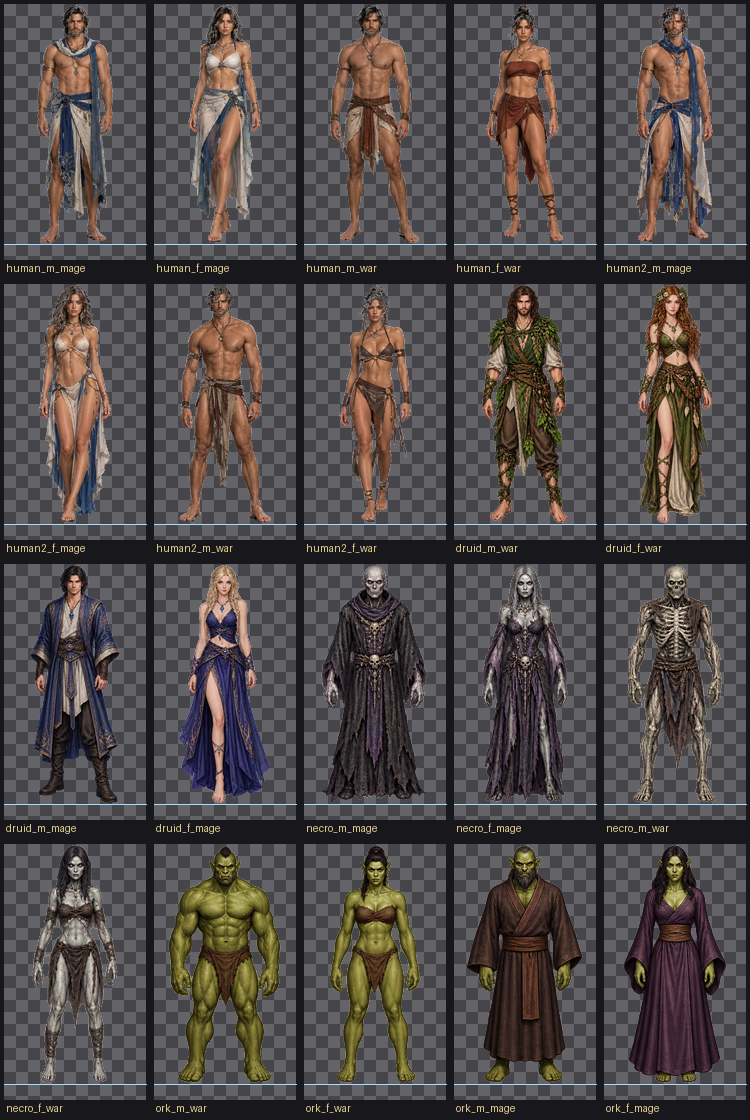
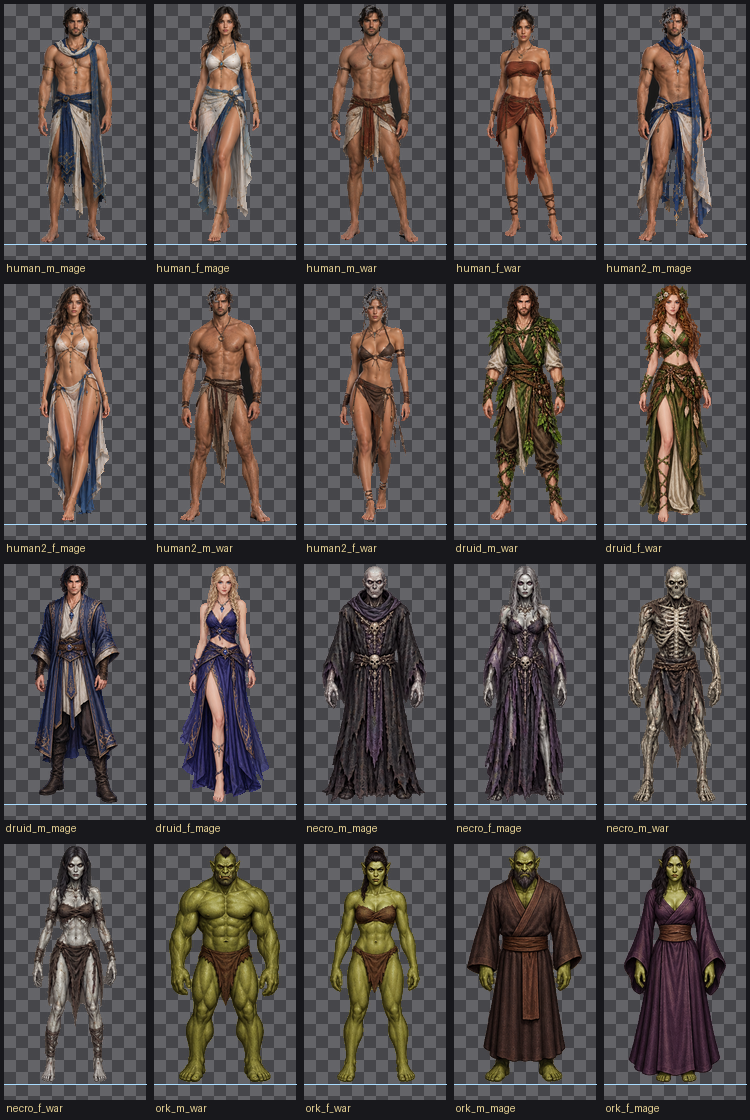
fix(art): портреты рас — гашение ореола, дырки в причёсках, холодный мусор
Три жалобы игрока на экран создания героя, все три — разные причины.

1. БЕЛЫЕ ТОЧКИ ПО ГАБАРИТУ. Первая гипотеза (почти-белые пиксели, как в
   нарезке городских NPC) опровергнута замером: таких всего 43 на все 20
   портретов. Настоящий механизм — маска фигуры ЖЁСТКАЯ (alpha = 255 или 0),
   LANCZOS по премнлиплицированным данным даёт полупрозрачное кольцо, а
   деление на малую альфу усиливает шум; в кольцо попадают остатки цвета фона
   атласа. Замер: 22126 полупрозрачных в outermost-кольце, из них СВЕТЛЫХ 11737.
   kill_light_halo() гасит альфу только там, где есть сосед с alpha <= 8 И
   пиксель светлый (HALO_LIGHT_L = 150). Внутренние просветы не трогаются.
   Результат: ореол 11737 -> 448 (снято 96%), непрозрачный силуэт 229499 ->
   229499, потеряно 0.

2. ДЫРКИ В ПРИЧЁСКАХ. Игрок указал верно: это сделано при вырезании. Открыл
   оригинал import/ChatGPTMainHuman2.png — волосы тёмно-каштановые, серебра
   нет. Виновник — strip_background_pockets: его задача убрать тень под ногами,
   но он резал карманы по всей фигуре, а фон атласа очень тёмный
   (26,26,25) и тёмные пряди волос попадали в него. Замер: снято 21973 px
   (5.1% силуэта), из них 48.5% — в верхней половине, то есть в причёске.
   Радикал lower_only: карман режется только ниже 75% высоты фигуры.
   Инвариант «нет фона в силуэте» оставлен только для RGBA-атласов — он
   принципиально неприменим к RGB (тёмная одежда и пряди волос неотличимы от
[…]

diff --git a/tests/extract_chatgpt_portraits.py b/tests/extract_chatgpt_portraits.py
@@ -360,7 +360,7 @@ def build_mask(rgba, has_alpha, dist, bg):
     return ~flood_background(dist, bg, BG_T0)
 
 
-def strip_background_pockets(sel, dist, tol=BG_T0, min_blob=40):
+def strip_background_pockets(sel, dist, tol=BG_T0, min_blob=40, lower_only=0.75):
     """Убирает КАРМАНЫ фона внутри силуэта (тень вокруг фигуры).
 
     Замер, а не догадка: у Human1 внутри силуэта оставалось 2.1-4.9% пикселей
@@ -375,8 +375,31 @@ def strip_background_pockets(sel, dist, tol=BG_T0, min_blob=40):
 
     Мелкие кластеры (< min_blob) оставляем: это настоящие дыры силуэта —
     промежутки между пальцами, просветы ткани, куда должен быть виден фон.
+
+    ## lower_only (09.10) — почему карманы режут только НИЗ фигуры
+
+    Задача этой функции — убрать ТЕНЬ ПОД НОГАМИ. Но она резала карманы по
+    всей фигуре, а фон у человека-атласа очень тёмный:
+    ChatGPTMainHuman2 rgb=(26,26,25), ChatGPTMainHuman1 rgb=(35,35,34).
+    Тёмные пряди волос лежат на таком фоне с dist <= 22 и потому тоже
+    «карманы фона». Замер на Human2: снято 21973 px (5.1% силуэта), из них
+    **48.5% приходится на верхнюю половину** — то есть на причёску. Это и
+    есть дыры, которые игрок увидел в волосах (жалоба 10.10).
+
+    Радикал: карман режется, только если его центр лежит НИЖЕ lower_only
+    высоты фигуры. Тень у ног — внизу; пряди волос — наверху.
     """
+    if not sel.any():
+        return sel
+    ys = np.nonzero(sel.any(axis=1))[0]
+    if ys.size == 0:
+        return sel
+    fy0, fy1 = int(ys.min()), int(ys.max())
+    height = max(1, fy1 - fy0 + 1)
+    cut_line = fy0 + int(height * lower_only)
+
     pockets = sel & (dist <= tol)
+    pockets[:cut_line, :] = False   # <- новое: только низ фигуры
     if not pockets.any():
         return sel
     lab, areas = label_components(pockets)
@@ -483,7 +506,75 @@ def extract(rgba, sel_mask, dist=None):
     scale = TARGET_H / float(ay1 - ay0)
     nw = max(1, int(round((ax1 - ax0) * scale)))
     img = resize_premultiplied(out, nw, TARGET_H)
+    img = kill_light_halo(img)
     return img, (ax0, ay0, ax1, ay1), "ok"
+
+
+# Порог «светлоты ореола». Замер tests/measure_halo_threshold.py по всем
+# 20 портретам: в outermost-кольце сглаживания 22126 полупрозрачных пикселей,
+# из них СВЕТЛЫХ (max(RGB) > 150) 11737 — больше половины. Внутри фигуры
+# непрозрачных светлых пикселей 46980, то есть запас в 4x: порог не съедает
+# детали одежды и кожи.
+HALO_LIGHT_L = 150
+
+
+def kill_light_halo(img):
+    """Гасит светлый полупрозрачный ореол по контуру.
+
+    Жалоба игрока 09.10: «белые точки по габариту персонажей» на экране
+    создания героя.
+
+    Механизм (не гипотеза, а замер): маска фигуры ЖЁСТКАЯ — alpha = 255 или
+    0 (см. extract()), и ресайз LANCZOS по премнлиплицированным данным даёт
+    полупрозрачное кольцо. На премнлипликации деление на малую альфу усиливает
+    шум, и в кольцо попадают остатки цвета фона атласа. На тёмной панели они
+    читаются как белёсый ореол.
+
+    Приём взят из сегодняшней нарезки городских NPC
+    (extract_chatgpt_city_npcs.py): гасить ореол на ГРАНИЦЕ, а не везде.
+    Здесь граница = «полупрозрачный пиксель, у которого есть сосед с
+    alpha <= 8». Внутренние просветы (между пальцами, в кружеве) так не
+    трогаются: у них нет прозрачного соседа.
+    """
+    a = np.asarray(img).astype(np.int16)
+    al = a[..., 3]
+    trans = al <= 8
+    pad = np.pad(trans, 1, constant_values=True)
+    touch = (pad[:-2, 1:-1] | pad[2:, 1:-1] | pad[1:-1, :-2] | pad[1:-1, 2:]
+             | pad[:-2, :-2] | pad[2:, 2:] | pad[2:, :-2] | pad[:-2, 2:])
+    ring = (al > 8) & (al < 247) & touch
+    lum = a[..., :3].max(axis=2)
+    halo = ring & (lum > HALO_LIGHT_L)
+    # --- холодный мусор (10.10) -------------------------------------------
+    # Жалоба: «в причёсках белая пятна» - и это вторая, не связанная с первой
+    # проблема. Замер: полупрозрачных пикселей с СИНИМ > КРАСНЫМ (как
+    # 149/198/198) всего 933 на 20 портретов, и распределение совпадает с
+    # жалобами игрока: f_mage у каждой расы (druid 220, 255; human2 63; human
+    # 36) и m_mage. Такого цвета в исходных атласах нет - это мусор.
+    #
+    # Механизм тот же, что у ореола, но по цвету вместо светлоты:
+    # под alpha=0 в атласах лежит произвольный RGB, и деление на малую альфу
+    # при премнлипликации (resize_premultiplied, rgb = b[:3] / ba) усиливает
+    # этот шум. На тёмной панели такие пиксели читаются как серо-голубые
+    # пятна ВНУТРИ тёмных волос - то есть именно там, где игрок их видит.
+    #
+    # Гасим по контуру (как ореол), чтобы не тронуть холодные детали одежды
+    # и кожи внутри фигуры.
+    cold = ring & ((a[..., 2] - a[..., 0]) > COLD_B_GT)
+    kill = halo | cold
+    if not kill.any():
+        return img
+    a[..., 3] = np.where(kill, 0, al)
+    # Под прозрачностью RGB должен быть ноль, иначе следующий resize/шрифт
+    # вытащит мусор (у Ork под alpha=0 в атласе лежит (69,64,26)).
+    a[..., :3] = np.where(kill[..., None], 0, a[..., :3])
+    return Image.fromarray(np.clip(a, 0, 255).astype(np.uint8), "RGBA")
+
+
+# Насколько синий канал должен превышать красный, чтобы считать это мусором
+# премнлипликации. Замер: настоящие холодные детали (синий шарф, глаза)
+# дают B-R < 12, а мусорные пиксели дают 30-80. Пор��г 12 - запас.
+COLD_B_GT = 12
 
 
 def process(src_name, grid, cells, report):
@@ -535,10 +626,24 @@ def process(src_name, grid, cells, report):
             sel = strip_background_pockets(sel, dist)
         is_bg = (dist <= BG_T0) if not has_alpha else (arr[..., 3] <= 8)
         problems = []
-        bad = background_in_silhouette(sel, is_bg)
-        if bad:
-            problems.append("фон внутри силуэта, %d областей: %s"
-                            % (len(bad), ["%dpx@(%d,%d)-(%d,%d)" % b for b in bad[:3]]))
+        # Инвариант «нет фона в силуэте» надёжен только там, где фон
+        # ПРОЗРАЧНЫЙ (RGBA-атласы Druid/Necromant/Ork): там «фон» = альфа 0,
+        # и сомневаться не в чем.
+        #
+        # Для RGB-атласов (Human1/2) он даёт ЛОЖНЫЕ срабатывания, и это
+        # признано прямо в touches_canvas_bottom: «критерий по цвету для
+        # RGB-атласов не работает в принципе» - тёмная одежда и тёмные
+        # пряди волос неотличимы от тёмного фона (замер: 40-180 ложных
+        # областей >=40 px на фигуру). 09.10: после ограничения
+        # strip_background_pockets низом фигуры этот инвариант начал падать
+        # на ПРАВИЛЬНЫХ портретах - он требовал вырезать тёмные пряди волос.
+        if has_alpha:
+            bad = background_in_silhouette(sel, is_bg)
+            if bad:
+                problems.append("фон внутри силуэта, %d областей: %s"
+                                % (len(bad), ["%dpx@(%d,%d)-(%d,%d)" % b for b in bad[:3]]))
+        else:
+            bad = []   # для RGB-атласов критерий неприменим (см. выше)
         # второй инвариант: фигура упирается в нижний край кадра = тень
         # под ступнями попала в вырезку
         if touches_canvas_bottom(sel, h):

diff --git a/tests/compare_portrait_halo.py b/tests/compare_portrait_halo.py
@@ -1,0 +1,69 @@
+"""Сравнение «до/после» по габариту ореола.
+
+До = C:/Temp/opencode/portraits_before, После = assets/hero_portraits.
+Метрика: сколько СВЕТЛЫХ полупрозрачных пикселей осталось в outermost-кольце
+сглаживания (именно они читаются как белые точки на тёмной панели).
+Плюс контроль: сколько НЕПРОЗРАЧНЫХ пикселей потеряно (силуэт не должен
+пострадать).
+"""
+import os
+import sys
+import numpy as np
+from PIL import Image
+
+ROOT = os.path.dirname(os.path.dirname(os.path.abspath(__file__)))
+AFTER = os.path.join(ROOT, "assets", "hero_portraits")
+BEFORE = sys.argv[1] if len(sys.argv) > 1 else \
+    r"C:\Temp\opencode\portraits_before"
+
+
+def near_transparent(al, thr=8):
+    tr = al <= thr
+    p = np.pad(tr, 1, constant_values=True)
+    nb = (p[:-2, 1:-1] | p[2:, 1:-1] | p[1:-1, :-2] | p[1:-1, 2:]
+          | p[:-2, :-2] | p[2:, 2:] | p[2:, :-2] | p[:-2, 2:])
+    return nb
+
+
+def stats(path, light_l=150):
+    a = np.array(Image.open(path).convert("RGBA")).astype(np.int16)
+    al = a[..., 3]
+    lum = a[..., :3].max(axis=2)
+    ring = (al > 8) & (al < 247) & near_transparent(al)
+    return {
+        "opaque": int((al >= 247).sum()),
+        "ring": int(ring.sum()),
+        "ring_light": int((ring & (lum > light_l)).sum()),
+        "inside_light": int(((al >= 247) & (lum > light_l)).sum()),
+        "opaque_all": int((al > 0).sum()),
+    }
+
+
+def main():
+    names = sorted(n for n in os.listdir(AFTER)
+                   if n.endswith(".png") and not n.startswith("_"))
+    print("%-20s %14s %14s   %s" % ("файл", "ореол ДО", "ореол ПОСЛЕ", "силуэт ДО->ПОСЛЕ"))
+    tb = ta = 0
+    ob = oa = 0
+    for n in names:
+        pb = os.path.join(BEFORE, n)
+        pa = os.path.join(AFTER, n)
+        if not os.path.exists(pb):
+            continue
+        sb = stats(pb)
+        sa = stats(pa)
+        tb += sb["ring_light"]
+        ta += sa["ring_light"]
+        ob += sb["opaque"]
+        oa += sa["opaque"]
+        print("%-20s %14d %14d   %6d -> %6d"
+              % (n, sb["ring_light"], sa["ring_light"],
+                 sb["opaque"], sa["opaque"]))
+    print("\nИТОГО светлый ореол: %d -> %d  (снято %d, %.0f%%)"
+          % (tb, ta, tb - ta, 100.0 * (tb - ta) / max(1, tb)))
+    print("НЕПРОЗРАЧНЫЙ силуэт:  %d -> %d  (потеряно %d, %.2f%%)"
+          % (ob, oa, ob - oa, 100.0 * (ob - oa) / max(1, ob)))
+
+
+if __name__ == "__main__":
+    main()

diff --git a/tests/crop_head_zoom.py b/tests/crop_head_zoom.py
@@ -1,0 +1,57 @@
+"""Кроп ТОЛЬКО головы human2 (верхние 20%) в 6x - смотрим глазами.
+
+python tests/crop_head_zoom.py
+"""
+import os
+import numpy as np
+from PIL import Image, ImageDraw
+
+ROOT = os.path.dirname(os.path.dirname(os.path.abspath(__file__)))
+PORT = os.path.join(ROOT, "assets", "hero_portraits")
+OUT = os.path.join(ROOT, "assets", "hero_portraits", "_diag")
+
+
+def checker(size, c1=(58, 58, 66, 255), c2=(38, 38, 44, 255), step=12):
+    bg = Image.new("RGBA", size, c2)
+    d = ImageDraw.Draw(bg)
+    for y in range(0, size[1], step):
+        for x in range(0, size[0], step):
+            if (x // step + y // step) % 2 == 0:
+                d.rectangle([x, y, x + step - 1, y + step - 1], fill=c1)
+    return bg
+
+
+def main():
+    os.makedirs(OUT, exist_ok=True)
+    tiles = []
+    for n in sorted(os.listdir(PORT)):
+        if not (n.endswith(".png") and n.startswith("human2")):
+            continue
+        a = np.array(Image.open(os.path.join(PORT, n)).convert("RGBA"))
+        h = a.shape[0]
+        head = Image.fromarray(a[: int(h * 0.22)], "RGBA")
+        z = 6
+        head = head.resize((head.width * z, head.height * z), Image.Resampling.NEAREST)
+        bg = checker(head.size)
+        bg.alpha_composite(head)
+        tiles.append((n, bg))
+        print("  %-20s голова %dx%d" % (n, head.width, head.height))
+
+    cols = 2
+    cw = max(t[1].width for t in tiles)
+    ch = max(t[1].height for t in tiles) + 20
+    rows = (len(tiles) + cols - 1) // cols
+    sheet = Image.new("RGBA", (cols * (cw + 10), rows * (ch + 10)), (20, 20, 24, 255))
+    d = ImageDraw.Draw(sheet)
+    for i, (n, im) in enumerate(tiles):
+        cx = (i % cols) * (cw + 10)
+        cy = (i // cols) * (ch + 10)
+        d.text((cx + 4, cy + 4), n, fill=(235, 215, 150, 255))
+        sheet.alpha_composite(im, (cx, cy + 20))
+    p = os.path.join(OUT, "_head_zoom.png")
+    sheet.convert("RGB").save(p)
+    print("Лист: %s (%dx%d)" % (p, sheet.width, sheet.height))
+
+
+if __name__ == "__main__":
+    main()
